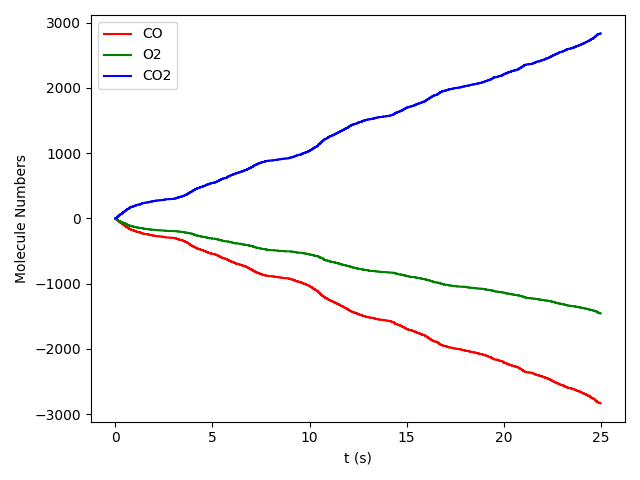
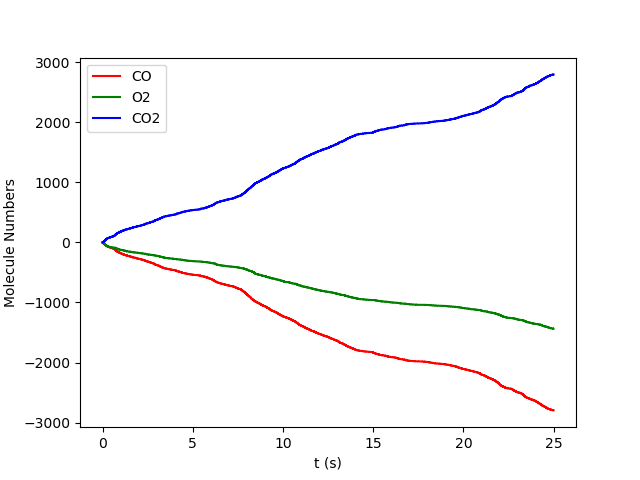
Updating intro examples -- SO203

diff --git a/examples/intro/intro0.py b/examples/intro/intro0.py
@@ -1,0 +1,58 @@
+import scm
+import scm.pyzacros as pz
+
+# Gas species:
+CO_g = pz.Species("CO")
+O2_g = pz.Species("O2")
+CO2_g = pz.Species("CO2", gas_energy=-2.337)
+
+# Surface species:
+s0 = pz.Species("*", 1)      # Empty adsorption site
+CO_s = pz.Species("CO*", 1)
+O_s = pz.Species("O*", 1)
+
+# Lattice setup:
+lattice = pz.Lattice( lattice_type=pz.Lattice.RECTANGULAR,
+                      lattice_constant=1.0, repeat_cell=[10,10] )
+lattice.plot()
+
+# Clusters:
+CO_p = pz.Cluster( species=[CO_s], energy=-1.3 )
+O_p = pz.Cluster( species=[O_s], energy=-2.3 )
+
+# Elementary Reactions
+CO_ads = pz.ElementaryReaction( initial=[s0, CO_g], final=[CO_s],
+                                reversible=False, pre_expon=10.0, activation_energy=0.0 )
+
+O2_ads = pz.ElementaryReaction( initial=[s0, s0, O2_g], final=[O_s, O_s], neighboring=[(0, 1)],
+                                reversible=False, pre_expon=2.5, activation_energy=0.0 )
+
+CO_oxi = pz.ElementaryReaction( initial=[CO_s, O_s], final=[s0, s0, CO2_g], neighboring=[(0, 1)],
+                                reversible=False, pre_expon=1.0e+20, activation_energy=0.0)
+
+scm.pyzacros.init()
+
+# Settings:
+sett = pz.Settings()
+sett.temperature = 500.0
+sett.pressure = 1.0
+sett.snapshots = ('time', 5.e-1)
+sett.process_statistics = ('time', 1.e-2)
+sett.species_numbers = ('time', 1.e-2)
+sett.max_time = 25.0
+sett.random_seed = 953129
+
+sett.molar_fraction.CO = 0.45
+sett.molar_fraction.O2 = 0.55
+
+myJob = pz.ZacrosJob( settings=sett, lattice=lattice,
+                        mechanism=[CO_ads, O2_ads, CO_oxi],
+                        cluster_expansion=[CO_p, O_p] )
+
+results = myJob.run()
+
+print( "nCO2 = ", results.provided_quantities()["CO2"][-10:] )
+results.plot_molecule_numbers( results.gas_species_names() )
+results.plot_molecule_numbers( results.surface_species_names() )
+
+scm.pyzacros.finish()

diff --git a/examples/intro/intro.py b/examples/intro/intro.py
@@ -1,3 +1,4 @@
+import scm
 import scm.pyzacros as pz
 
 # Gas species

diff --git a/doc/source/intro.rst b/doc/source/intro.rst
@@ -64,7 +64,7 @@ The ZGB model includes (see the script below):
 .. code-block:: python
    :linenos:
 
-   import scm.plams
+   import scm
    import scm.pyzacros as pz
 
    # Gas species:
@@ -73,9 +73,9 @@ The ZGB model includes (see the script below):
    CO2_g = pz.Species("CO2", gas_energy=-2.337)
 
    # Surface species:
-   s0 = pz.Species("*", 1)      # Empty adsorption site
-   CO_s = pz.Species("CO*", 1)
-   O_s = pz.Species("O*", 1)
+   s0 = pz.Species("*")      # Empty adsorption site
+   CO_s = pz.Species("CO*")
+   O_s = pz.Species("O*")
 
    # Lattice setup:
    lattice = pz.Lattice( lattice_type=pz.Lattice.RECTANGULAR,
@@ -96,7 +96,7 @@ The ZGB model includes (see the script below):
    CO_oxi = pz.ElementaryReaction( initial=[CO_s, O_s], final=[s0, s0, CO2_g], neighboring=[(0, 1)],
                                    reversible=False, pre_expon=1.0e+20, activation_energy=0.0)
 
-   scm.plams.init()
+   scm.pyzacros.init()
 
    # Settings:
    sett = pz.Settings()
@@ -106,13 +106,14 @@ The ZGB model includes (see the script below):
    sett.process_statistics = ('time', 1.e-2)
    sett.species_numbers = ('time', 1.e-2)
    sett.max_time = 25.0
+   sett.random_seed = 953129
 
    sett.molar_fraction.CO = 0.45
    sett.molar_fraction.O2 = 0.55
 
    myJob = pz.ZacrosJob( settings=sett, lattice=lattice,
-                         mechanism=[CO_ads, O2_ads, CO_oxi],
-                         cluster_expansion=[CO_p, O_p] )
+                           mechanism=[CO_ads, O2_ads, CO_oxi],
+                           cluster_expansion=[CO_p, O_p] )
 
    results = myJob.run()
 
@@ -120,7 +121,7 @@ The ZGB model includes (see the script below):
    results.plot_molecule_numbers( results.gas_species_names() )
    results.plot_molecule_numbers( results.surface_species_names() )
 
-   scm.plams.finish()
+   scm.pyzacros.finish()
 
 
 Don't worry if something in the above code is incomprehensible or confusing.
@@ -134,7 +135,7 @@ be similar to the image below:
    :scale: 80 %
    :align: center
 
-Then, you should see the plot of the number of molecules of each kind as a function of time during the simulation. We have split this information into two Figures for clarity, one for gas-phase species and the other one for surface species, as follows (see script's line 54-55):
+Then, you should see the plot of the number of molecules of each kind as a function of time during the simulation. We have split this information into two Figures for clarity, one for gas-phase species and the other one for surface species, as follows (see script's line 55-56):
 
 .. figure:: ../images/ZGB-mol_gas_nums.png
    :scale: 80 %
@@ -150,12 +151,12 @@ During the execution the following information is written to the standard output
    :linenos:
 
    [02.11|12:07:12] PLAMS working folder: /home/user/plams_workdir
-   [02.11|12:07:12] JOB plamsjob STARTED
-   [02.11|12:07:12] JOB plamsjob RUNNING
-   [02.11|12:07:12] JOB plamsjob FINISHED
-   [02.11|12:07:12] JOB plamsjob SUCCESSFUL
-   nCO2 = [2825, 2827, 2828, 2829, 2829, 2830, 2830, 2832, 2832, 2834]
-   [02.11|12:07:40] PLAMS run finished. Goodbye
+   [08.02|13:57:45] JOB plamsjob STARTED
+   [08.02|13:57:45] JOB plamsjob RUNNING
+   [08.02|13:57:45] JOB plamsjob FINISHED
+   [08.02|13:57:45] JOB plamsjob SUCCESSFUL
+   nCO2 =  [2790, 2790, 2790, 2792, 2792, 2793, 2793, 2795, 2797, 2797]
+   [08.02|13:58:05] PLAMS run finished. Goodbye
 
 It indicates that pyZacros created a uniquely named working folder (``plams_workdir``) and then ran the Zacros calculation in a separate
 subfolder of the working folder (``plamsjob``). All the files created by each Zacros run are saved in the corresponding subfolder for future reference. However, notice that you can access the results directly from the python script. To illustrate this, see line 54 of the script that produces line 6 in the standard output, which prints the number of CO2 molecules produced in the last ten-time steps of the simulation.

diff --git a/README.md b/README.md
@@ -55,7 +55,7 @@ The ZGB model includes (see the script below):
    an O adatom and a CO adsorbate. (Lines 24-31)
 
 ```python {.line-numbers}
-import scm.plams
+import scm
 import scm.pyzacros as pz
 
 # Gas species:
@@ -64,13 +64,13 @@ O2_g = pz.Species("O2")
 CO2_g = pz.Species("CO2", gas_energy=-2.337)
 
 # Surface species:
-s0 = pz.Species("*", 1)      # Empty adsorption site
-CO_s = pz.Species("CO*", 1)
-O_s = pz.Species("O*", 1)
+s0 = pz.Species("*")      # Empty adsorption site
+CO_s = pz.Species("CO*")
+O_s = pz.Species("O*")
 
 # Lattice setup:
 lattice = pz.Lattice( lattice_type=pz.Lattice.RECTANGULAR,
-                        lattice_constant=1.0, repeat_cell=[10,10] )
+                      lattice_constant=1.0, repeat_cell=[10,10] )
 lattice.plot()
 
 # Clusters:
@@ -87,7 +87,7 @@ O2_ads = pz.ElementaryReaction( initial=[s0, s0, O2_g], final=[O_s, O_s], neighb
 CO_oxi = pz.ElementaryReaction( initial=[CO_s, O_s], final=[s0, s0, CO2_g], neighboring=[(0, 1)],
                                 reversible=False, pre_expon=1.0e+20, activation_energy=0.0)
 
-scm.plams.init()
+scm.pyzacros.init()
 
 # Settings:
 sett = pz.Settings()
@@ -97,6 +97,7 @@ sett.snapshots = ('time', 5.e-1)
 sett.process_statistics = ('time', 1.e-2)
 sett.species_numbers = ('time', 1.e-2)
 sett.max_time = 25.0
+sett.random_seed = 953129
 
 sett.molar_fraction.CO = 0.45
 sett.molar_fraction.O2 = 0.55
@@ -111,7 +112,7 @@ print( "nCO2 = ", results.provided_quantities()["CO2"][-10:] )
 results.plot_molecule_numbers( results.gas_species_names() )
 results.plot_molecule_numbers( results.surface_species_names() )
 
-scm.plams.finish()
+scm.pyzacros.finish()
 ```
 
 Don't worry if something in the above code is incomprehensible or confusing.
@@ -125,7 +126,7 @@ be similar to the image below:
     <img src="doc/images/ZGB-lattice.png" style="width:40%">
 </p>
 
-Then, you should see the plot of the number of molecules of each kind as a function of time during the simulation. We have split this information into two Figures for clarity, one for gas-phase species and the other one for surface species, as follows (see script's line 54-55):
+Then, you should see the plot of the number of molecules of each kind as a function of time during the simulation. We have split this information into two Figures for clarity, one for gas-phase species and the other one for surface species, as follows (see script's line 55-56):
 
 <p align="center">
     <img src="doc/images/ZGB-mol_gas_nums.png" style="width:40%">
@@ -136,12 +137,12 @@ During the execution the following information is written to the standard output
 
 ```
 [02.11|12:07:12] PLAMS working folder: /home/user/plams_workdir
-[02.11|12:07:12] JOB plamsjob STARTED
-[02.11|12:07:12] JOB plamsjob RUNNING
-[02.11|12:07:12] JOB plamsjob FINISHED
-[02.11|12:07:12] JOB plamsjob SUCCESSFUL
-nCO2 = [2825, 2827, 2828, 2829, 2829, 2830, 2830, 2832, 2832, 2834]
-[02.11|12:07:40] PLAMS run finished. Goodbye
+[08.02|13:57:45] JOB plamsjob STARTED
+[08.02|13:57:45] JOB plamsjob RUNNING
+[08.02|13:57:45] JOB plamsjob FINISHED
+[08.02|13:57:45] JOB plamsjob SUCCESSFUL
+nCO2 =  [2790, 2790, 2790, 2792, 2792, 2793, 2793, 2795, 2797, 2797]
+[08.02|13:58:05] PLAMS run finished. Goodbye
 ```
 
 It indicates that pyZacros created a uniquely named working folder (``plams_workdir``) and then ran the Zacros calculation in a separate
